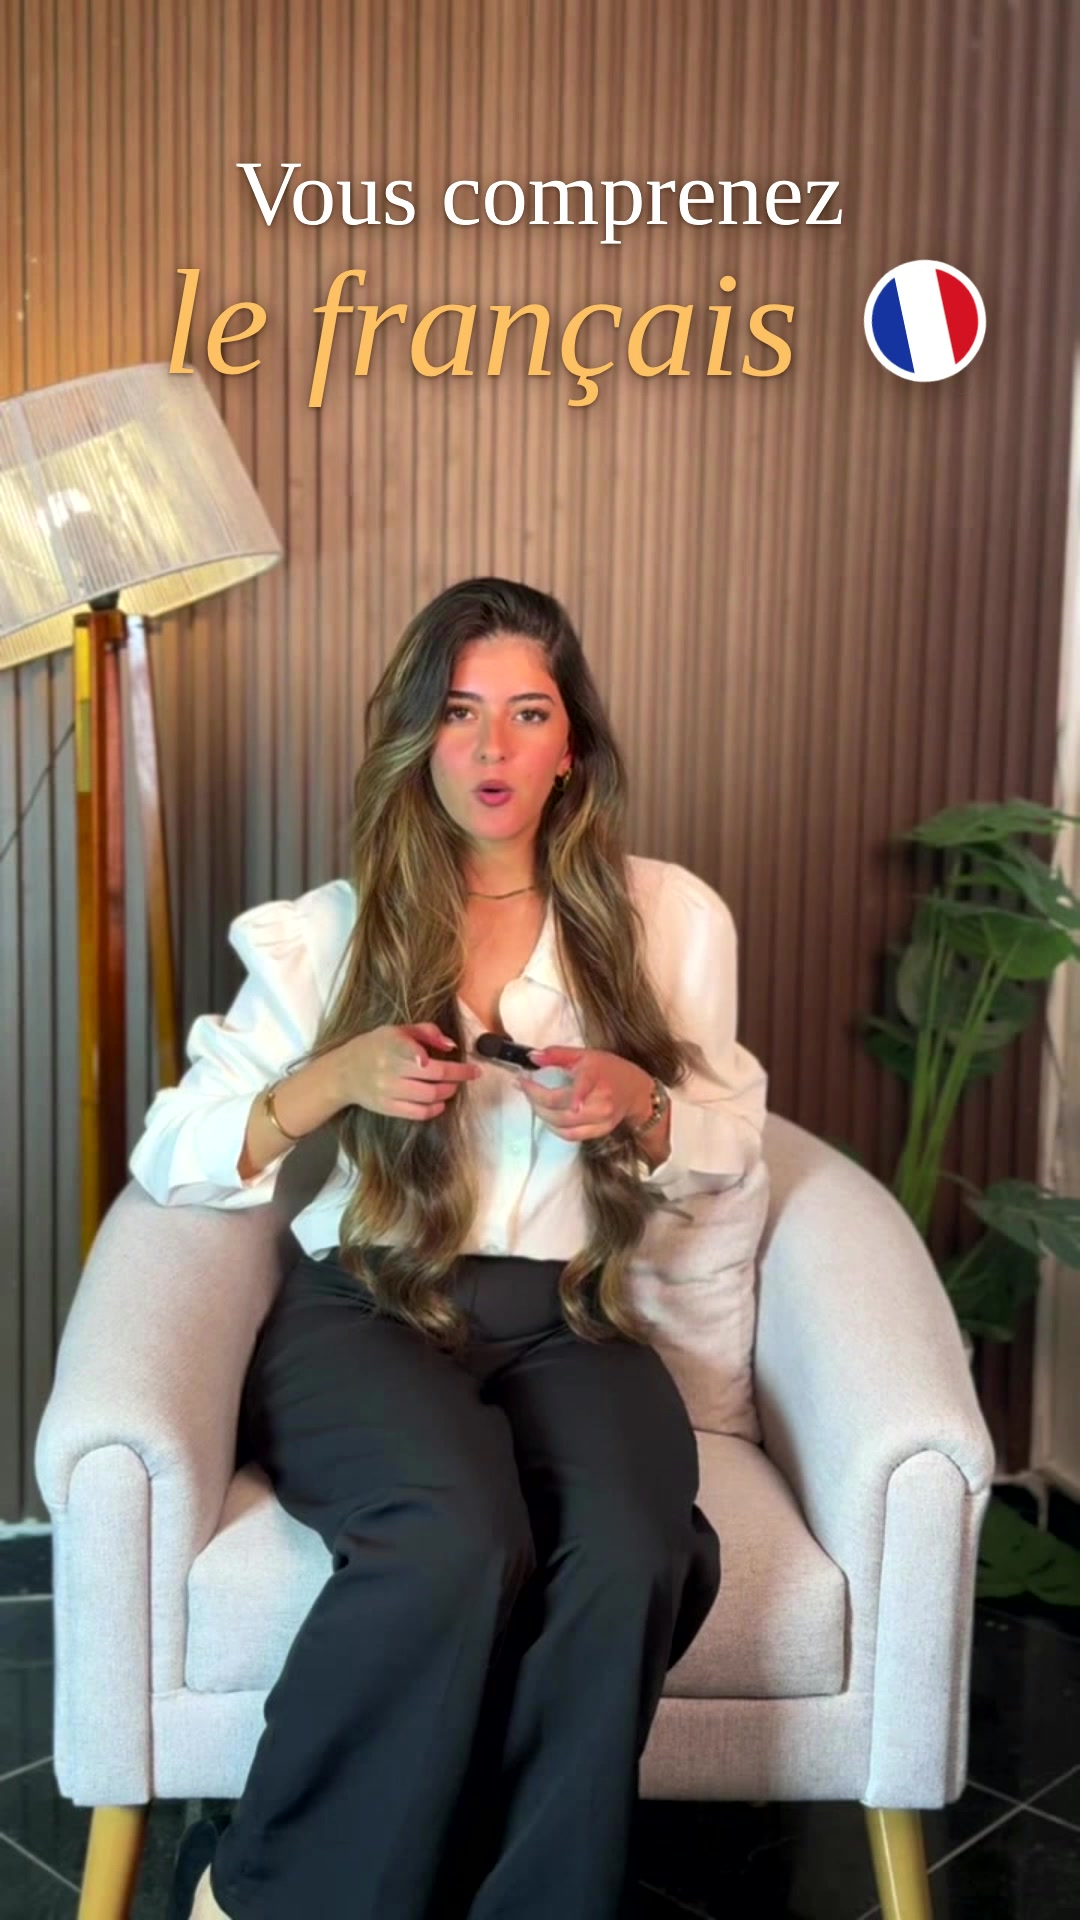
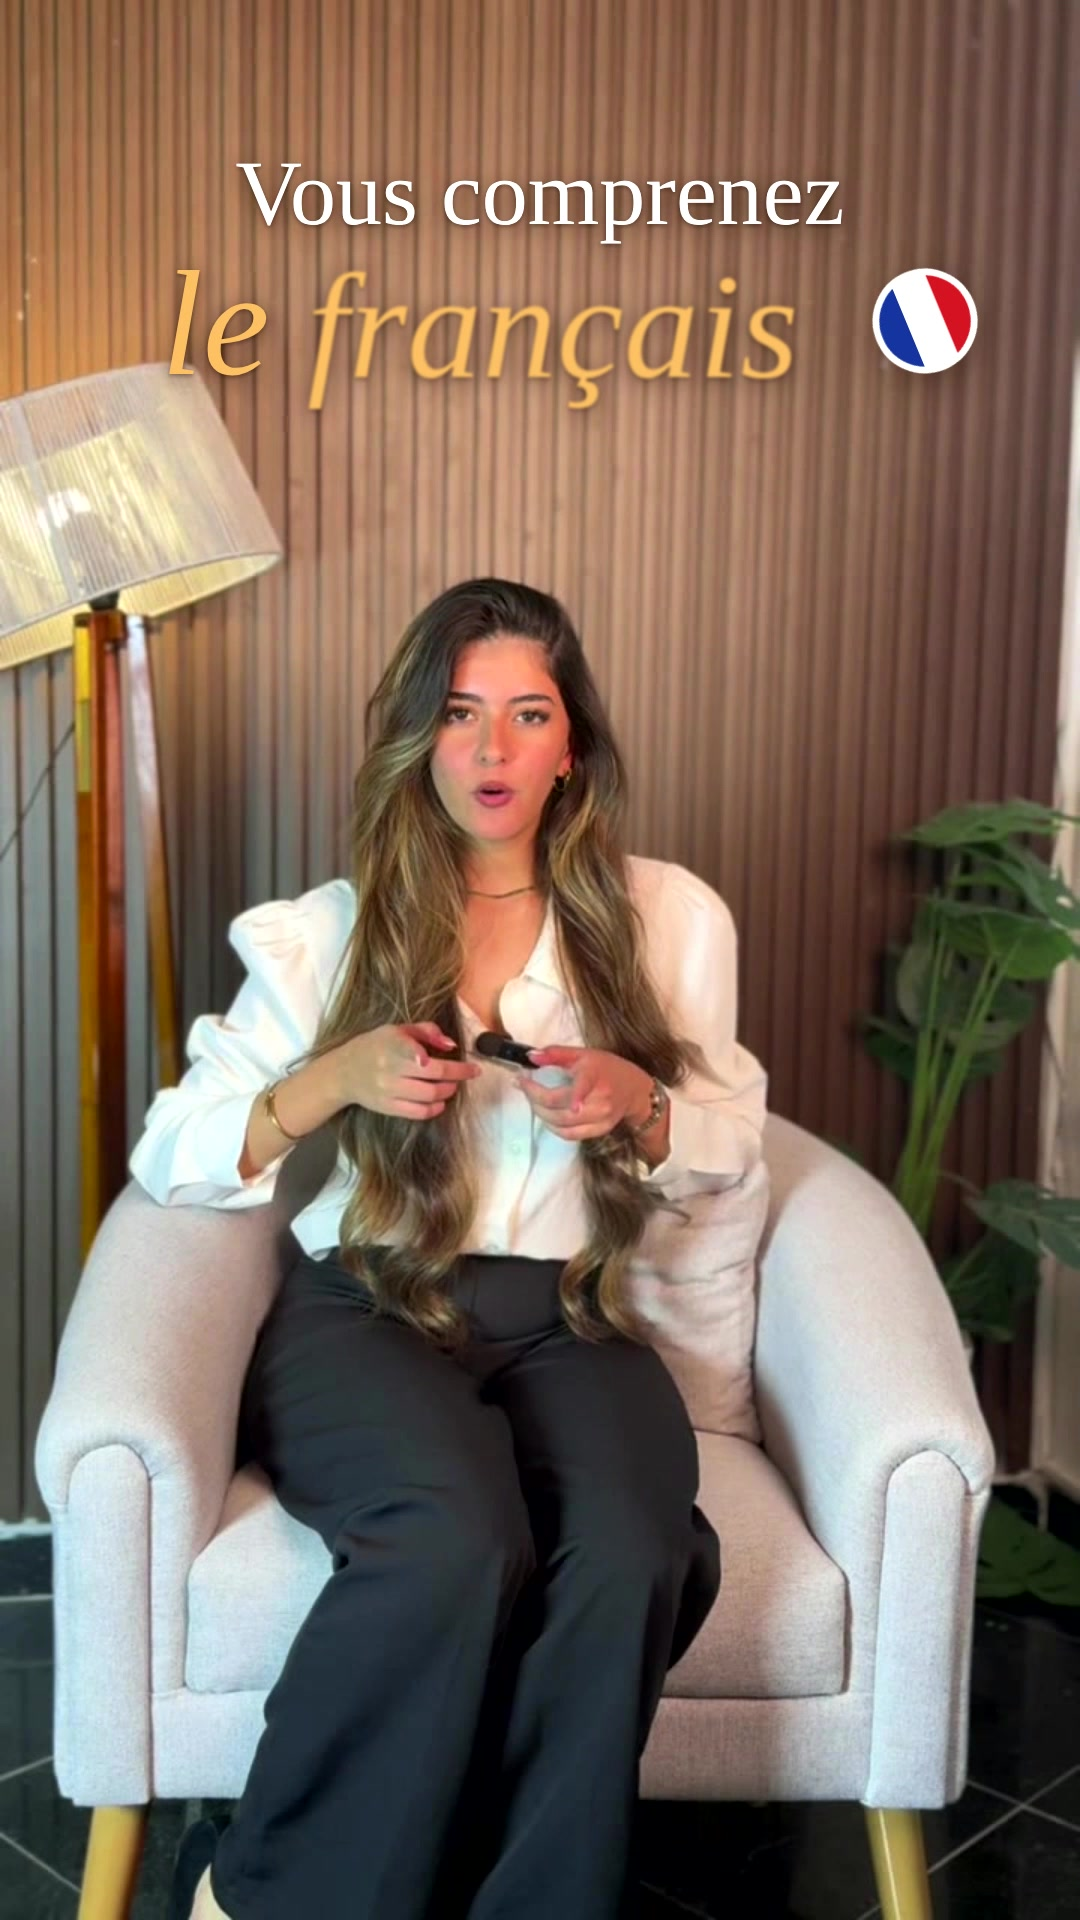
short-fast-track: keep the take whole (no silence cuts); save the rule in the ref style
Claude-Session: https://claude.ai/code/session_01AxhibgRmBs7v8bGQfSccih

Changed region(s): [[0.275, 0.125, 0.7333, 0.2188], [0.7944, 0.125, 0.9167, 0.2188], [0.4583, 0.5312, 0.4889, 0.5625]]

diff --git a/video-agent/edits/short-fast-track/source/mg.html b/video-agent/edits/short-fast-track/source/mg.html
@@ -293,7 +293,7 @@ function draw(t) {
     A('cur', t, 29.55, 31.0, { s0: 1, x, y, sc: t > 30.15 && t < 30.32 ? .85 : 1 });
     const r = lin(t, 30.15, 30.75); A('rip', t, 30.15, 30.75, { s0: 1, x: 800, y: 1615, sc: 1 + 4 * r }); if (t >= 30.15 && t < 30.75) $('rip').style.opacity = 1 - r; }
 };
-const KEEPS = [[0, 0.2333, 0], [0.3, 1.7, 0.2333], [1.8333, 2.9, 1.6333], [2.9667, 3.6, 2.7], [3.6667, 3.8667, 3.3333], [3.9333, 5.1, 3.5333], [5.1333, 6.5, 4.7], [6.5333, 7.6333, 6.0667], [7.9333, 8.9667, 7.1667], [9.0333, 10.7667, 8.2], [10.8333, 10.8667, 9.9333], [10.9333, 11.0667, 9.9667], [11.1333, 12.3667, 10.1], [12.4, 14.3, 11.3333], [14.3667, 15.4667, 13.2333], [15.5, 17.5, 14.3333], [17.5333, 19.6667, 16.3333], [19.7, 21.1667, 18.4667], [21.2333, 23.2333, 19.9333], [23.4, 23.5, 21.9333], [23.5333, 25.0667, 22.0333], [25.2667, 28.6, 23.5667], [28.6333, 28.8, 26.9], [28.8667, 31.6, 27.0667]], CAPS = [[[3.66, "Vous", false], [3.89, "cherchez", false], [4.34, "vos", false], [4.51, "mots", true]], [[4.74, "et", false], [4.85, "vous", false], [5.11, "n'êtes", false], [5.51, "jamais", false], [5.74, "sûr", false]], [[5.9, "que", false], [6.08, "votre", false], [6.42, "phrase", false], [6.65, "est", false], [6.76, "correcte.", true]], [[7.5, "La raison", false], [8.15, "est", false], [8.35, "simple,", true]], [[9.0, "pour", false], [9.34, "bien", false], [9.46, "communiquer", false]], [[10.04, "il", false], [10.15, "y", false], [10.25, "a", false], [10.27, "deux", true], [10.49, "choses :", true]], [[10.9, "une", false], [11.1, "grammaire", false], [11.71, "solide", true]], [[12.09, "et", false], [12.2, "une", false], [12.4, "pratique", false], [12.97, "régulière", true], [13.52, "de", false], [13.65, "l'oral.", false]], [[14.1, "Chez", false], [14.34, "Lougha", true], [14.76, "Online,", true]], [[15.18, "votre", false], [15.48, "formation", false], [16.06, "est", false], [16.2, "100%", true], [16.79, "interactive,", true]], [[17.5, "la", false], [17.62, "grammaire", false], [18.16, "et", false], [18.31, "la", false], [18.4, "communication", false]], [[19.34, "dont", false], [19.46, "vous", false], [19.67, "avez", false], [19.91, "vraiment", true], [20.49, "besoin.", true]], [[21.0, "Les", false], [21.19, "temps,", true], [21.66, "la", false], [21.81, "construction", false], [22.55, "des", false], [22.85, "phrases", true]], [[23.19, "et", false], [23.36, "les", false], [23.51, "expressions", true], [24.23, "du", true], [24.36, "quotidien.", true]], [[25.0, "À", false], [25.34, "travers", false], [25.67, "des", false], [25.99, "échanges", true]], [[26.58, "et", false], [26.85, "des", false], [27.01, "situations", true], [27.99, "réelles.", true]], [[28.5, "Si", false], [28.61, "vous", false], [28.83, "êtes", false], [29.16, "intéressé,", false]], [[29.69, "le", false], [29.78, "lien", false], [29.97, "d'inscription", false], [30.38, "est", false], [30.5, "dans", true], [30.66, "la", true], [30.74, "bio.", true]]];
+const KEEPS = [[0, 31.9333, 0]], CAPS = [[[3.66, "Vous", false], [3.89, "cherchez", false], [4.34, "vos", false], [4.51, "mots", true]], [[4.74, "et", false], [4.85, "vous", false], [5.11, "n'êtes", false], [5.51, "jamais", false], [5.74, "sûr", false]], [[5.9, "que", false], [6.08, "votre", false], [6.42, "phrase", false], [6.65, "est", false], [6.76, "correcte.", true]], [[7.5, "La raison", false], [8.15, "est", false], [8.35, "simple,", true]], [[9.0, "pour", false], [9.34, "bien", false], [9.46, "communiquer", false]], [[10.04, "il", false], [10.15, "y", false], [10.25, "a", false], [10.27, "deux", true], [10.49, "choses :", true]], [[10.9, "une", false], [11.1, "grammaire", false], [11.71, "solide", true]], [[12.09, "et", false], [12.2, "une", false], [12.4, "pratique", false], [12.97, "régulière", true], [13.52, "de", false], [13.65, "l'oral.", false]], [[14.1, "Chez", false], [14.34, "Lougha", true], [14.76, "Online,", true]], [[15.18, "votre", false], [15.48, "formation", false], [16.06, "est", false], [16.2, "100%", true], [16.79, "interactive,", true]], [[17.5, "la", false], [17.62, "grammaire", false], [18.16, "et", false], [18.31, "la", false], [18.4, "communication", false]], [[19.34, "dont", false], [19.46, "vous", false], [19.67, "avez", false], [19.91, "vraiment", true], [20.49, "besoin.", true]], [[21.0, "Les", false], [21.19, "temps,", true], [21.66, "la", false], [21.81, "construction", false], [22.55, "des", false], [22.85, "phrases", true]], [[23.19, "et", false], [23.36, "les", false], [23.51, "expressions", true], [24.23, "du", true], [24.36, "quotidien.", true]], [[25.0, "À", false], [25.34, "travers", false], [25.67, "des", false], [25.99, "échanges", true]], [[26.58, "et", false], [26.85, "des", false], [27.01, "situations", true], [27.99, "réelles.", true]], [[28.5, "Si", false], [28.61, "vous", false], [28.83, "êtes", false], [29.16, "intéressé,", false]], [[29.69, "le", false], [29.78, "lien", false], [29.97, "d'inscription", false], [30.38, "est", false], [30.5, "dans", true], [30.66, "la", true], [30.74, "bio.", true]]];
 const toSrc = ts => { let k = KEEPS[0]; for (const q of KEEPS) if (ts >= q[2]) k = q; return Math.min(k[1], k[0] + (ts - k[2])); };
 const cap = $('cap');
 function caps(t) {

diff --git a/video-agent/edits/short-fast-track/source/spec.js b/video-agent/edits/short-fast-track/source/spec.js
@@ -17,6 +17,7 @@ window.SPEC = {
   },
   cam: { crop: [0, 0, 720, 1280], eyes: [360, 330] },
   cut: [],
+  hold: [[0, 31.93]],   // no silence cut at all: the creator wants her natural flow (2026-11-09: « beaucoup de coupures, pas naturel »)
 
   layout: { keys: [[0, 0]] },
   zoom: { keys: [[0, 1]] },

diff --git a/video-agent/styles/ref/STYLE.md b/video-agent/styles/ref/STYLE.md
@@ -48,3 +48,6 @@ Voix en darija marocaine, sous-titres traduits en français.
 - Garder le logo Lougha Online, le site Loughaonline.com et la traduction darija → français.
 - Ne PAS garder les couleurs de la référence : reprendre celles de sa propre vidéo.
 - Même style, mais plus riche : beaucoup d'illustrations et de motion graphics animés.
+
+## Rejeté
+- 9 novembre 2026 : les micro-coupes de silence (24 coupes en 30 s) : « pas smooth, pas naturel ». Désormais la prise reste entière, sans aucune coupe.
